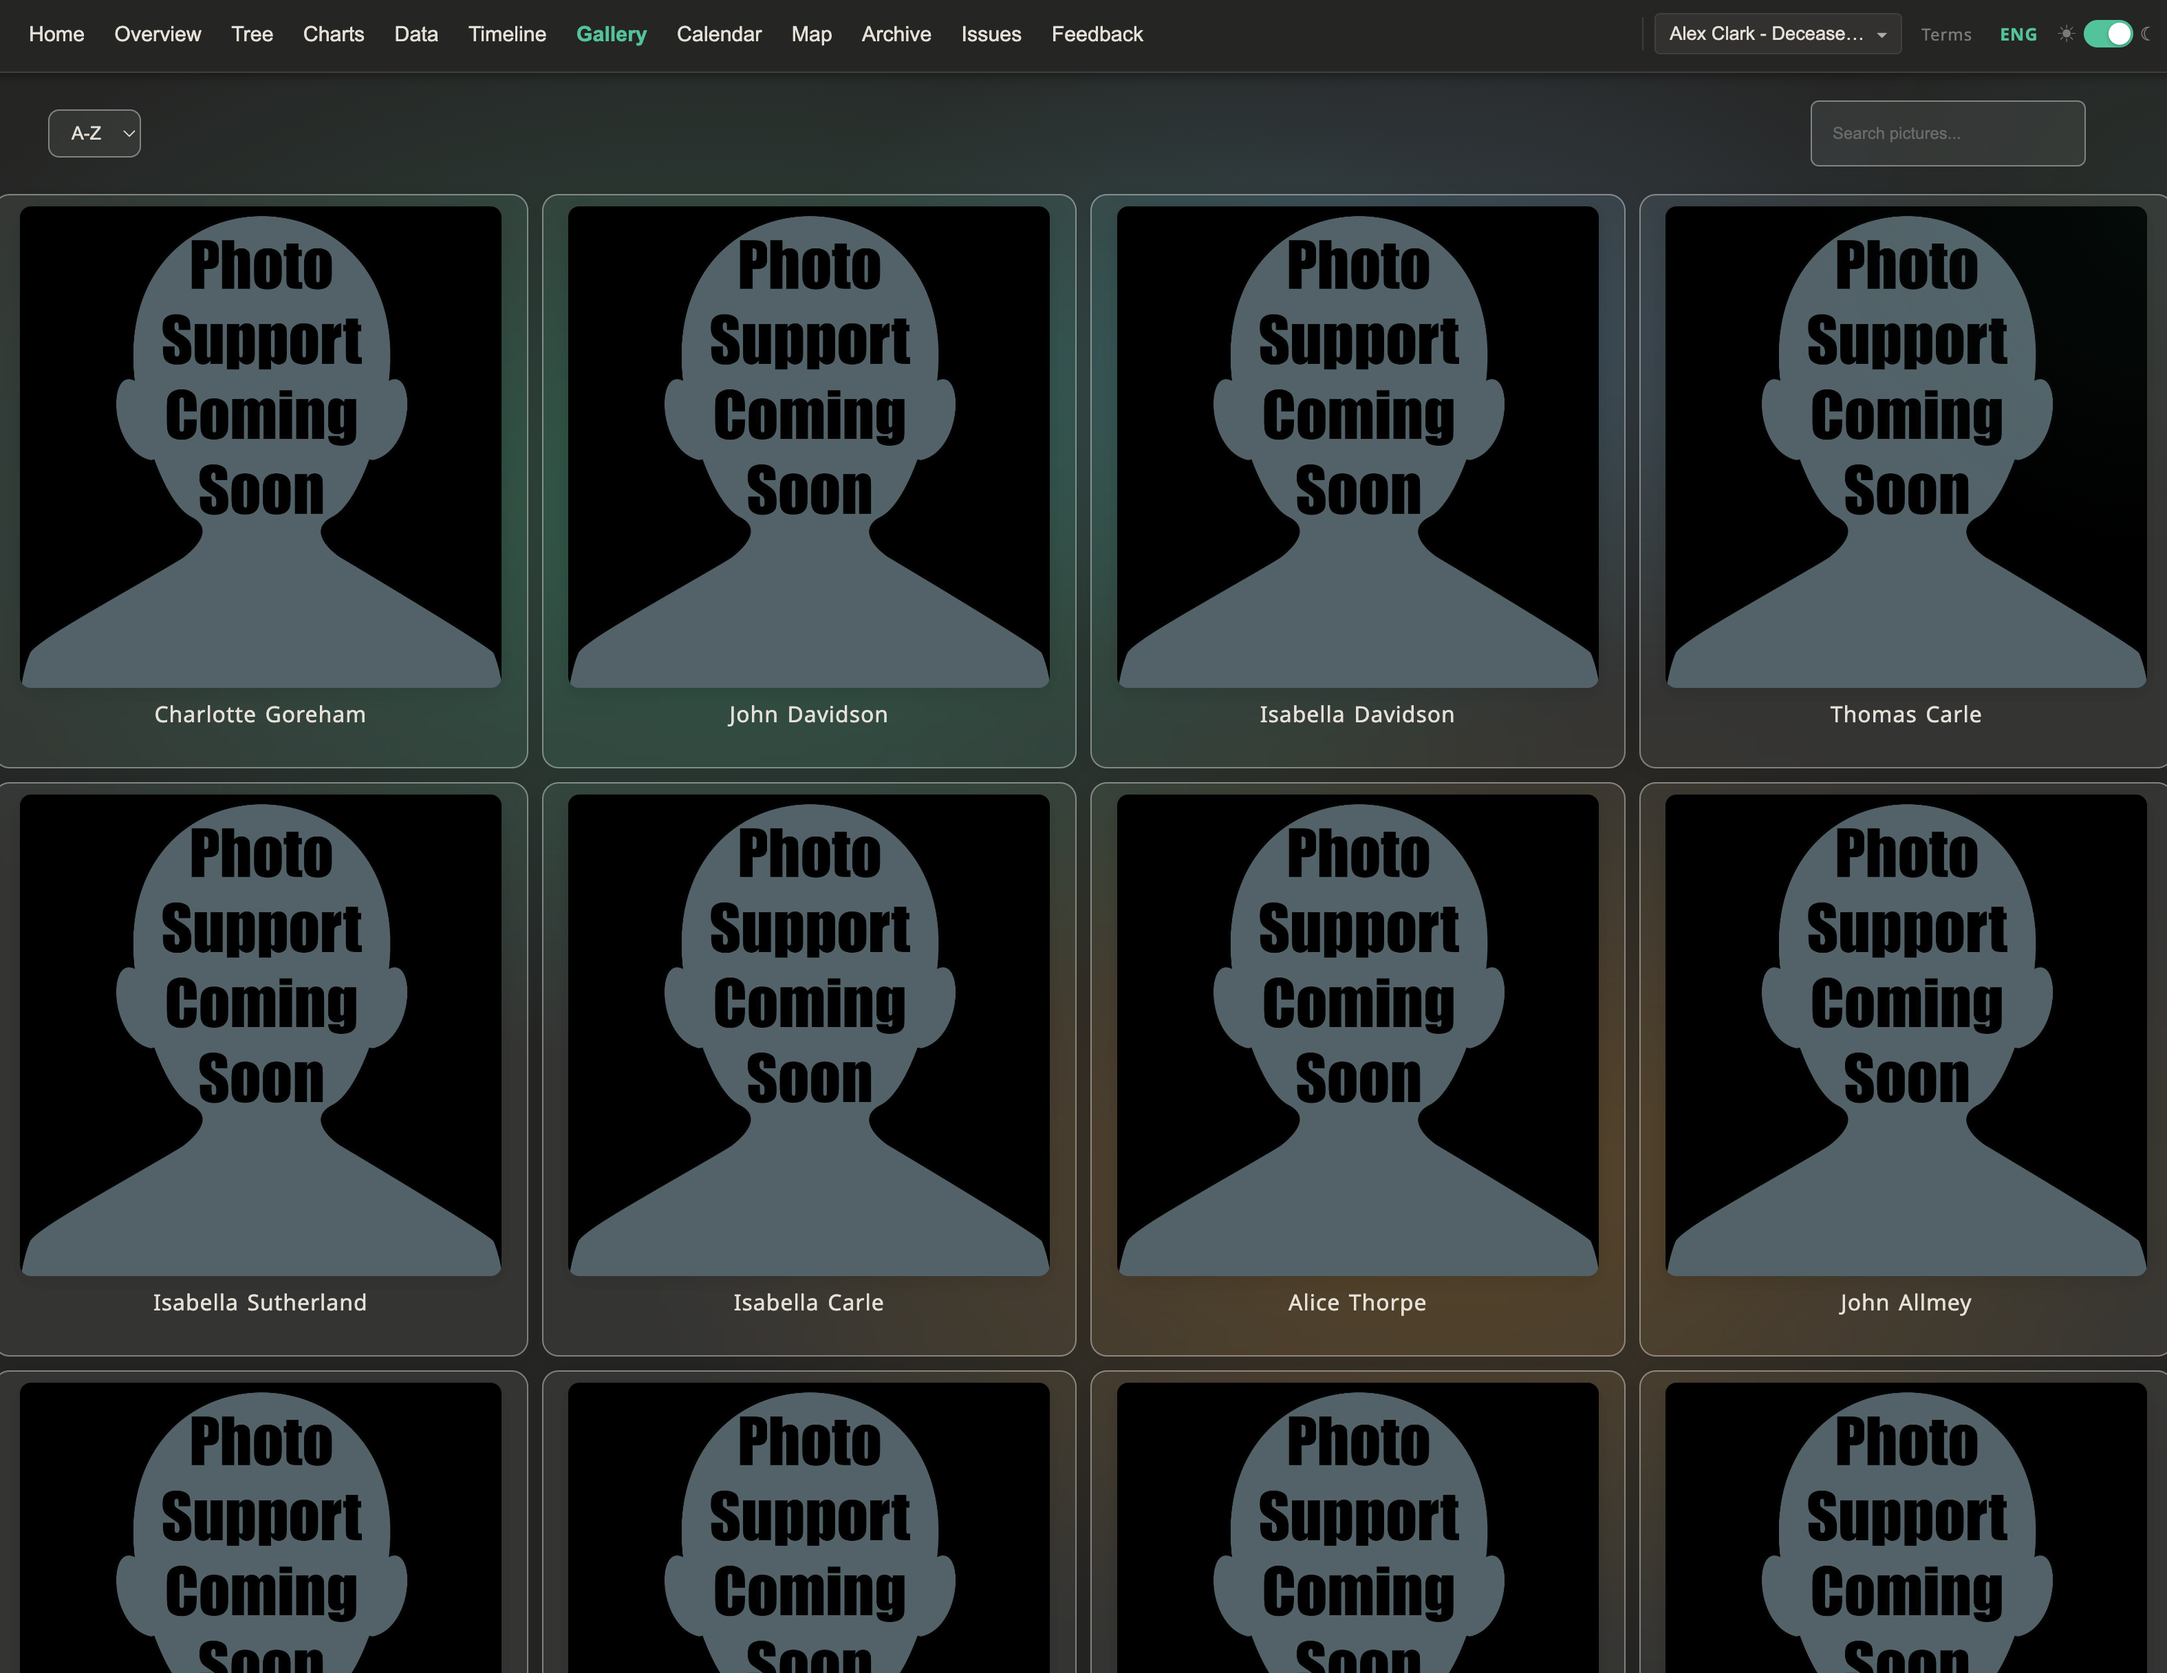
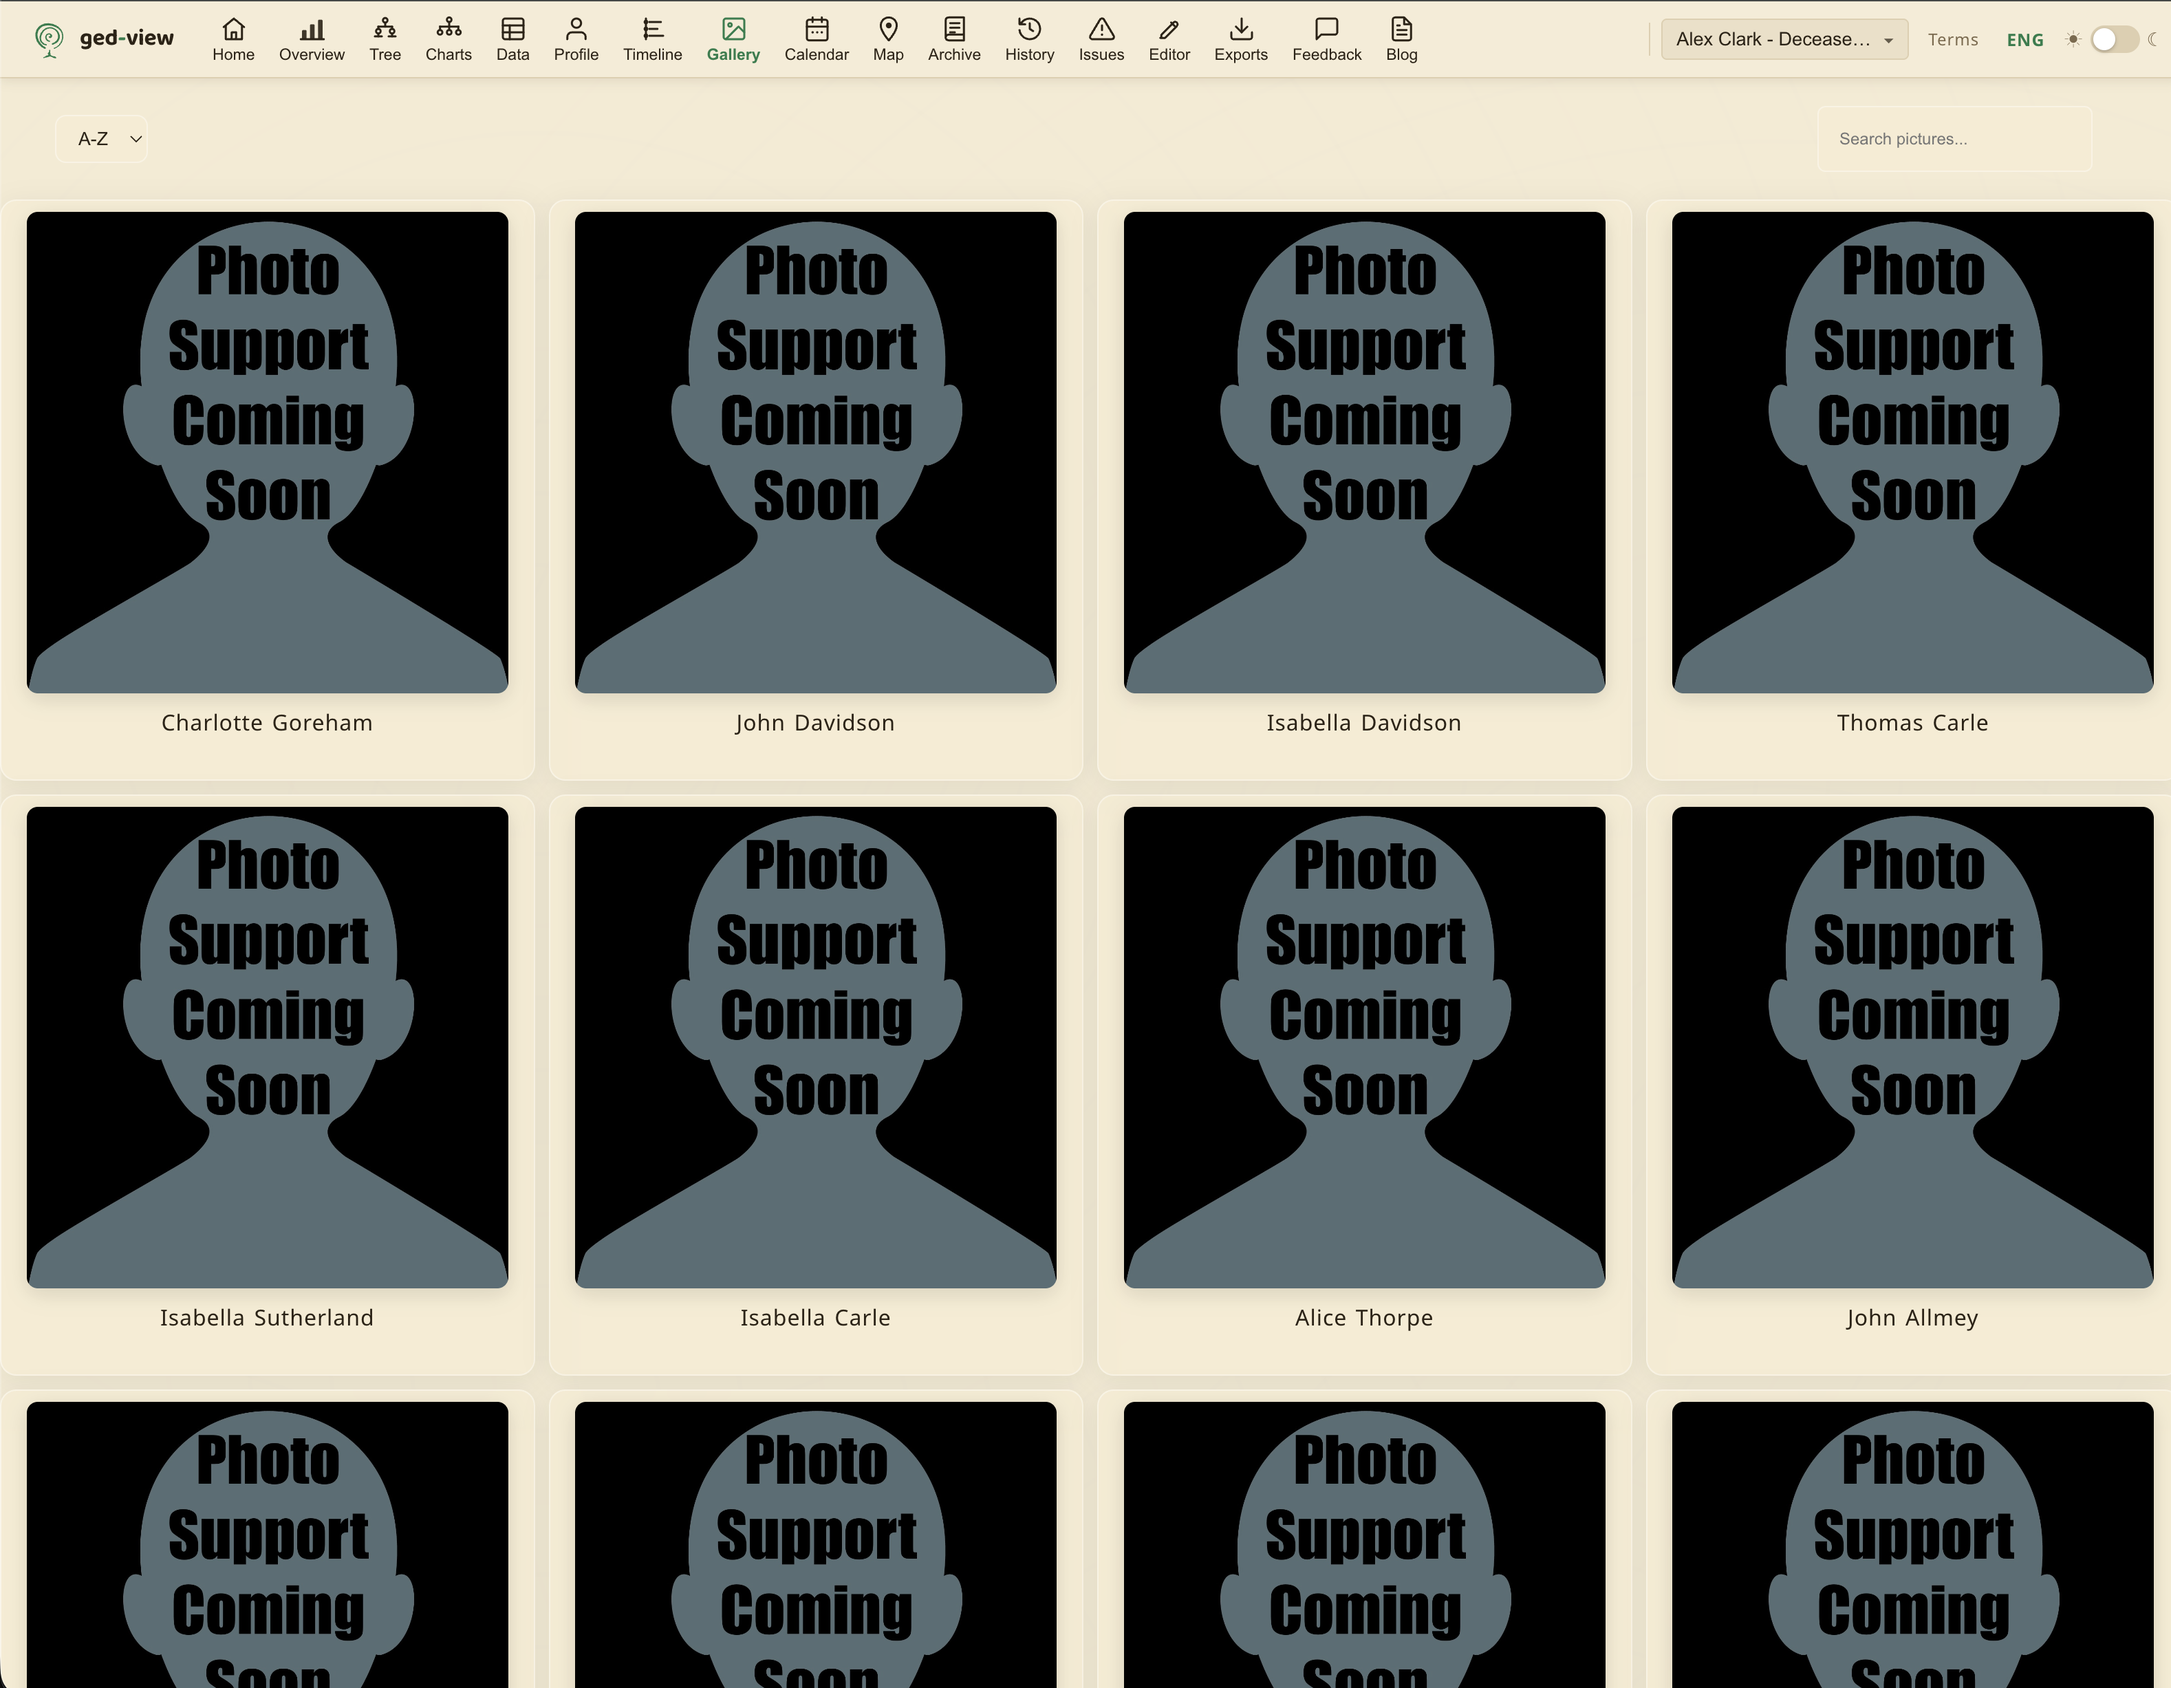
new styling and features

diff --git a/README.md b/README.md
@@ -21,56 +21,77 @@ Import your `.ged` file and everything happens inside your browser: parsing, lay
 ## Features
 
 ### Overview & Stats
-A summary dashboard: total people, families, unique surnames, locations, and the full timespan of your tree at a glance.
+See a breakdown of people, families, last names, locations, and timespans at a glance.
 
 ![Overview](Images/overview.png)
 
 ### Family Tree
-An interactive graphical tree for navigating ancestors and descendants. Pan, zoom, and click through generations.
+Visualize your ancestors and descendants in an interactive graphical tree.
 
 ![Family Tree](Images/tree.png)
 
 ### Charts
-Generate a descendant chart for any individual, or produce a relationship diagram between any two people in your tree. More chart types (ancestor, hourglass, fan) are in progress.
+Generate descendant charts and relation report diagrams for any individual in your tree.
 
 ![Descendant Chart](Images/descendant%20chart.png)
 ![Relation Report Chart](Images/relation%20report%20chart.png)
 
 ### Data Table
-Every individual and all their recorded data in a sortable, filterable grid. Search by name, date, location, or any field.
+Browse every individual with sortable, filterable columns for quick searching.
 
 ![Data Table](Images/data.png)
 
+### Profile
+View a detailed page for each individual: life events, family connections, photos, and sources.
+
+![Profile](Images/profile.png)
+
 ### Timeline
-Every birth, death, marriage, and recorded event across all generations laid out in chronological order, with filters to narrow by type or date range.
+Explore every birth, death, marriage, and event across all generations in chronological order.
 
 ![Timeline](Images/timeline.png)
 
 ### Gallery
-All photos and media embedded in your GEDCOM file collected into one browsable view.
+View photos and media embedded in your GEDCOM file in one place.
 
 ![Gallery](Images/gallery.png)
 
 ### Calendar
-Birthdays and anniversaries displayed in a familiar calendar layout so you never miss one.
+Browse birthdays and anniversaries laid out in a calendar view.
 
 ![Calendar](Images/calendar.png)
 
 ### Map
-Birth, death, marriage, and burial locations plotted on an interactive world map, with animated migration paths showing how your family moved across generations.
+Visualize birth, death, marriage, and burial locations pinned on an interactive world map.
 
 ![Map](Images/map.png)
 ![Migration Paths](Images/migration.png)
 
 ### Archive
-Sources, citations, and repository records linked to individuals. All the documentation behind your research in one place.
+Browse sources, citations, and repository records linked to individuals in your tree.
 
 ![Archive](Images/archive.png)
 
+### History
+See which people and families were most recently changed, based on the modification dates recorded in your GEDCOM file.
+
+![History](Images/history.png)
+
 ### Issues
-Automatic data quality checks: impossible dates, death before birth, missing required fields, and other inconsistencies flagged in one report so you know what to fix.
+Scan your GEDCOM for data problems: impossible dates, missing fields, and inconsistencies, all in one report.
 
 ![Issues](Images/issues.png)
+
+### Editor
+View and edit the raw GEDCOM file directly, with each level indented for readability.
+
+### Exports
+Export the tree and charts to PDF or PNG, the overview, profiles, timeline, and calendar year to PDF, and the data table to CSV or Excel. Every export is kept on your browser for 7 days.
+
+![Exports](Images/exports.png)
+
+### Blog
+Guides, tips, and articles on genealogy research, GEDCOM files, and getting the most from your family data.
 
 ---
 
@@ -105,22 +126,23 @@ Files you import are saved in your browser's local storage so they're available 
 ## Roadmap
 
 **Completed recently**
-- Ancestor & descendant charts
-- Animated migration paths on the map
+- Descendant chart
 - Relationship finder (e.g. "7th cousin twice removed")
 - Localization / interface translations
 - Issues / data quality report
+- History view of recently changed people and families
+- Raw GEDCOM editor
+- Exports to PDF, PNG, CSV, and Excel across every view
+- Larger file support (now handles up to ~80 MB / 6,000 people in the tree view; 50,000+ across all other views)
+- Calendar sync (Google Calendar, Apple Calendar, etc.)
 
 **Planned**
-- Export everything: tree diagrams, timeline, profiles, and the full data table to PDF, image, CSV, or Excel
 - Theme builder for colors, fonts, and card styles
-- Larger file support (currently handles up to ~12 MB / 3,000 people in the tree view; 50,000+ across all other views)
 - Document & media attachments directly to individuals and events
 
 **Long-term**
 - Optional accounts and cloud sync (still fully private, data never sold or shared)
 - Family sharing with access controls
-- Calendar sync (Google Calendar, Apple Calendar, etc.)
 - Collaborative editing with version history
 
 ---
